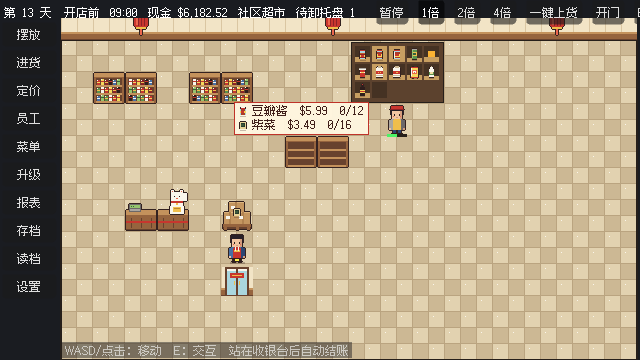
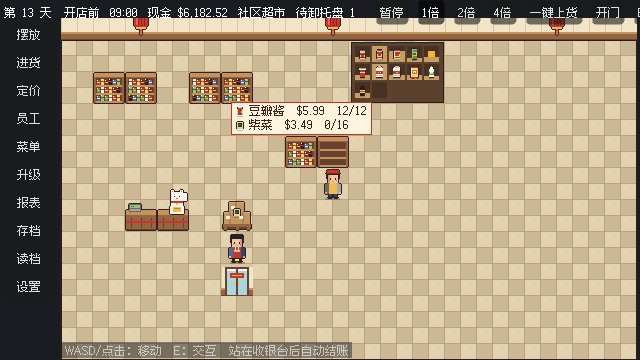
M14 tour: wait for the stocker to shelve the imported goods before the last shot

diff --git a/game/scripts/Dev/ScreenshotTour.cs b/game/scripts/Dev/ScreenshotTour.cs
@@ -640,6 +640,8 @@ public partial class ScreenshotTour : Node
             Send(new AssignShelfSlot(shelf, 0, "doubanjiang"));
             Send(new AssignShelfSlot(shelf, 1, "seaweed"));
             Send(new RestockAll());
+            // The stocker may have taken the restocking: let them finish.
+            for (var i = 0; i < 1500 && Sim.Inventory.Count(new Sim.Inventory.StockLocation(shelf, 0), "doubanjiang") == 0; i++) Sim.Tick();
             Store.DebugHover = new GridPoint(7, 3);
         });
     }
